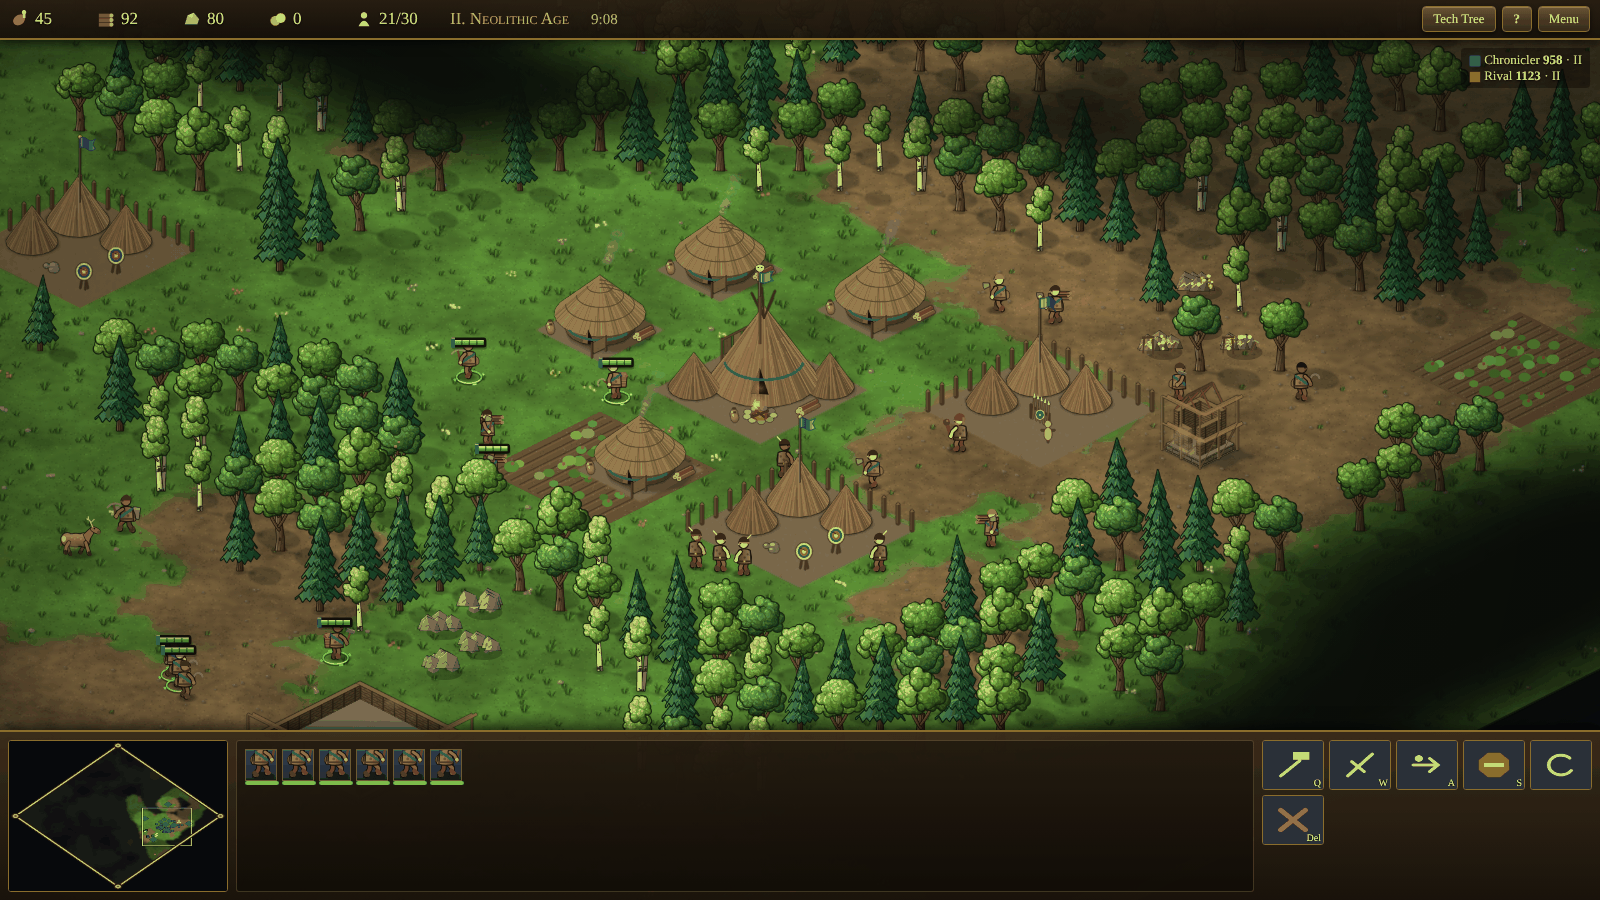
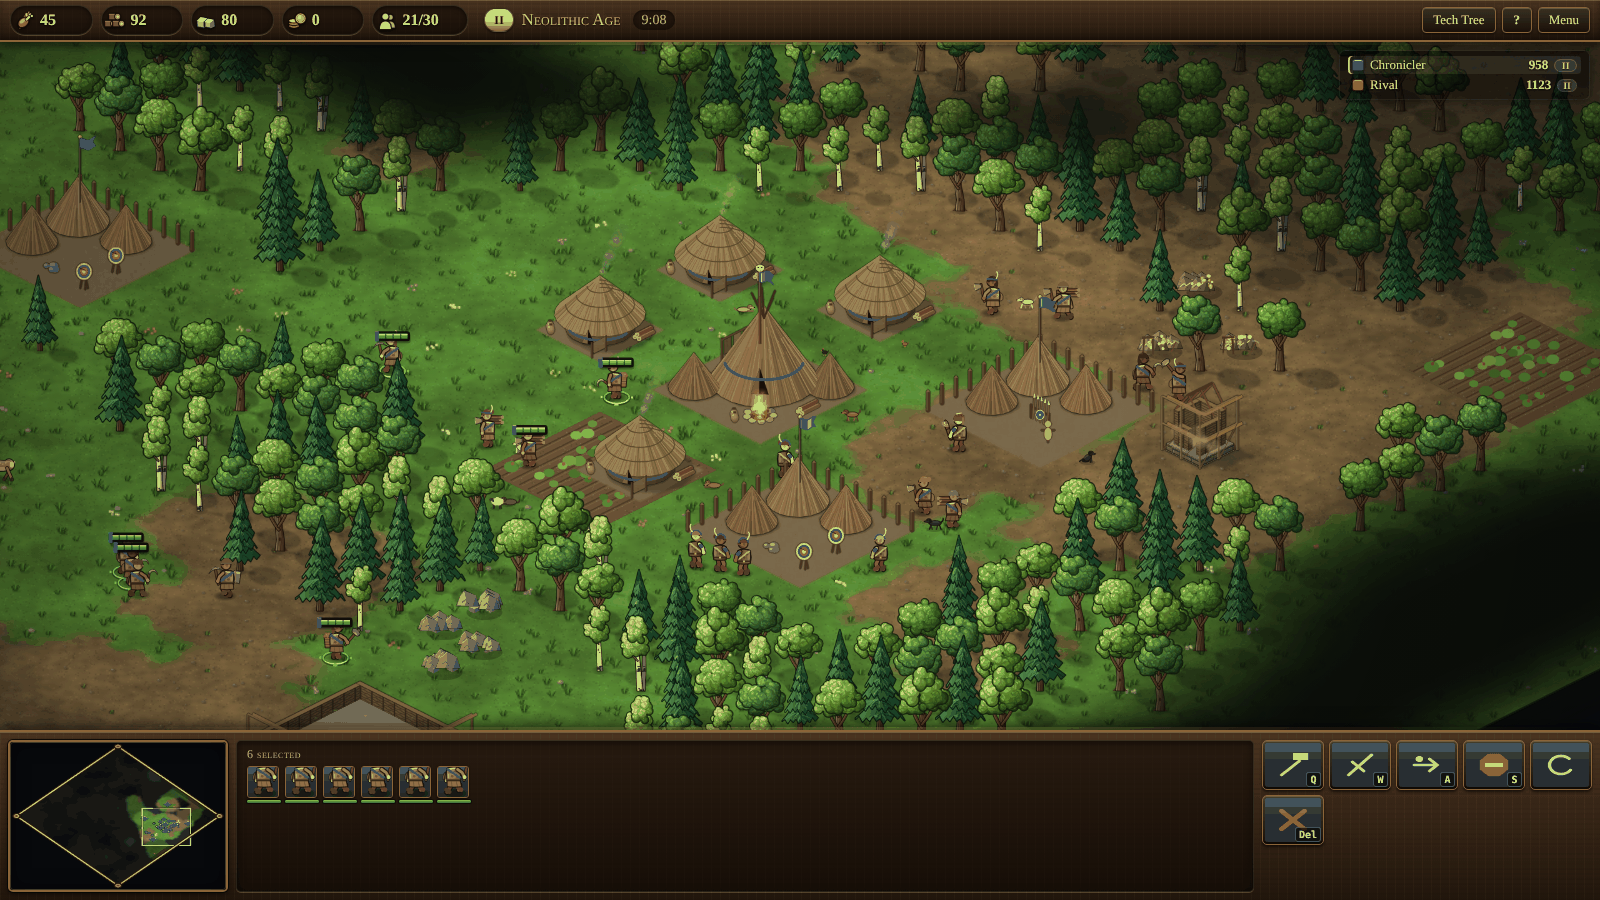
README: screenshots with the sixth graphics pass
Retaken from the same saved games: new people, weapons and pets, the
era-themed HUD and minimap; admin pages and menus retaken too.

Claude-Session: https://claude.ai/code/session_01JQR7bv5zTkF2rXUQYNZtuQ

diff --git a/README.md b/README.md
@@ -89,7 +89,7 @@ All game scenes are real matches played by computer opponents (saved and restore
 | ![Tech tree](docs/screenshots/techtree.png) | ![Manual](docs/screenshots/manual.png) |
 | *Your own tech tree (`F2`): every age, unit line and technology* | *The user manual and FAQ, built into the game (`F4`)* |
 | ![Level editor](docs/screenshots/editor.png) | ![Demo mode](docs/screenshots/demo.png) |
-| *The level editor* | *Demo mode: the game plays itself when nobody is at the keyboard (here: an alien world)* |
+| *The level editor* | *Demo mode: the game plays itself when nobody is at the keyboard* |
 | ![Lobby](docs/screenshots/lobby.png) | ![Room](docs/screenshots/room.png) |
 | *Multiplayer lobby with global chat* | *A battle room: humans and AI, teams, seats and map size* |
 | ![Administration](docs/screenshots/admin.png) | ![Health & performance](docs/screenshots/admin-stats.png) |
